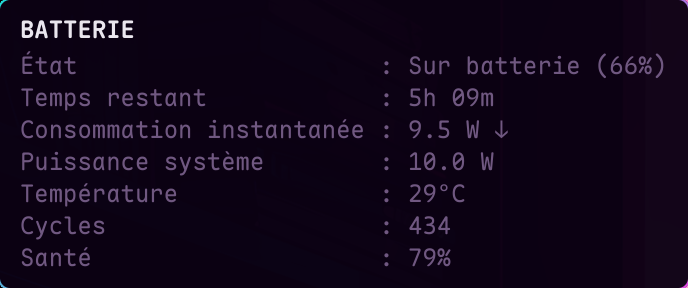
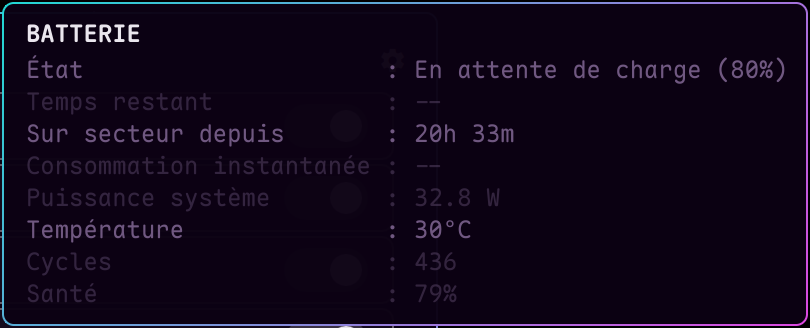
Refresh the screenshots and mark 1.4
Bar, settings, CPU, RAM, NET, DISK and BATTERY screenshots are regenerated
from 1.3.16: the owner split line, the per-row owners, the aligned command
field and the new settings layout. tooltip-alerts.png is kept: this machine
currently reports 50 zombie processes from an unrelated parent, which would
have filled the whole bubble. Version 1.4.

diff --git a/README.md b/README.md
@@ -1,6 +1,6 @@
 # YASSM — Yet Another Simple System Monitor
 
-Version 1.3.16
+Version 1.4
 
 **English** | [Français](README-fr.md)
 

diff --git a/README-fr.md b/README-fr.md
@@ -1,6 +1,6 @@
 # YASSM — Yet Another Simple System Monitor
 
-Version 1.3.16
+Version 1.4
 
 [English](README.md) | **Français**
 
